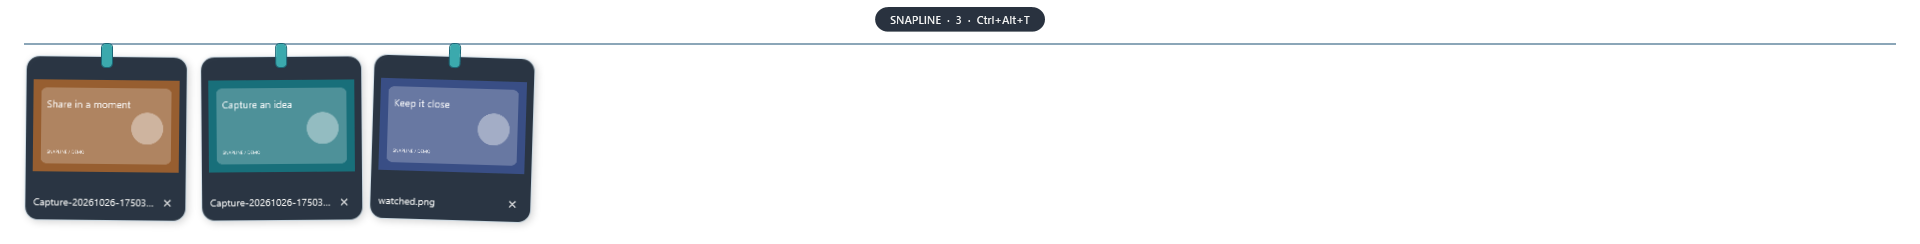
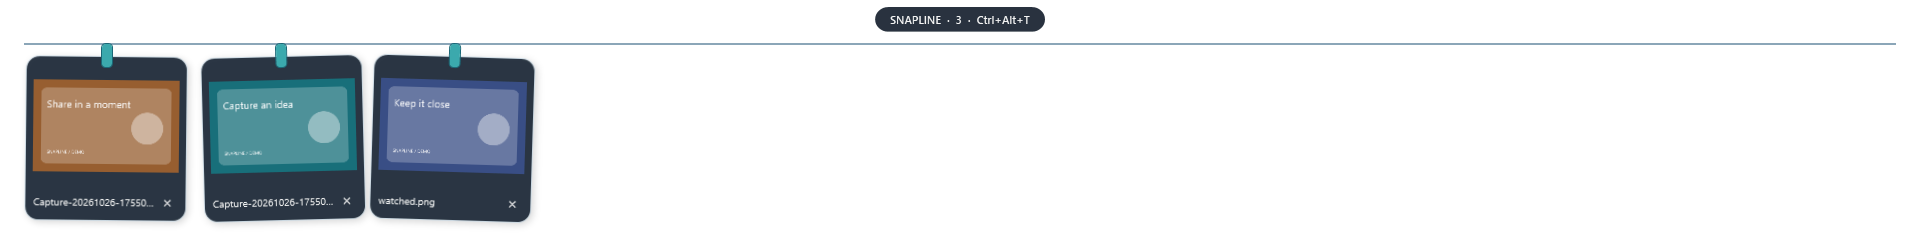
修复剪贴板图片跨线程复制并完善便携包资源

diff --git a/Core/CaptureLibrary.cs b/Core/CaptureLibrary.cs
@@ -79,6 +79,7 @@ public sealed class CaptureLibrary
         string? created = null;
         try
         {
+            bitmap = await Task.Run(() => Detach(bitmap));
             var hash = await Task.Run(() => Fingerprint(bitmap));
             if (state.Captures.Any(x => x.Hash == hash)) return;
             created = System.IO.Path.Combine(Storage.Inbox, $"Capture-{DateTime.Now:yyyyMMdd-HHmmss}-{Guid.NewGuid():N}.png");
@@ -180,8 +181,19 @@ public sealed class CaptureLibrary
         var decoder = BitmapDecoder.Create(stream, BitmapCreateOptions.PreservePixelFormat, BitmapCacheOption.OnLoad);
         var frame = decoder.Frames[0];
         if ((long)frame.PixelWidth * frame.PixelHeight > 80_000_000) throw new IOException(Words.T("图片像素过大。", "Image dimensions are too large."));
-        frame.Freeze();
-        return frame;
+        return Detach(frame);
+    }
+    private static BitmapSource Detach(BitmapSource frame)
+    {
+        if (frame.PixelWidth <= 0 || frame.PixelHeight <= 0 || (long)frame.PixelWidth * frame.PixelHeight > 80_000_000) throw new IOException(Words.T("图片像素过大。", "Image dimensions are too large."));
+        // 解码帧携带线程相关的元数据；转成独立像素源后再跨线程用于剪贴板和预览。
+        var converted = new FormatConvertedBitmap(frame, PixelFormats.Bgra32, null, 0);
+        var stride = checked(frame.PixelWidth * 4);
+        var pixels = new byte[checked(stride * frame.PixelHeight)];
+        converted.CopyPixels(pixels, stride, 0);
+        var bitmap = BitmapSource.Create(frame.PixelWidth, frame.PixelHeight, frame.DpiX, frame.DpiY, PixelFormats.Bgra32, null, pixels, stride);
+        bitmap.Freeze();
+        return bitmap;
     }
     private static (BitmapSource Thumb, string Hash) Read(string path)
     {
